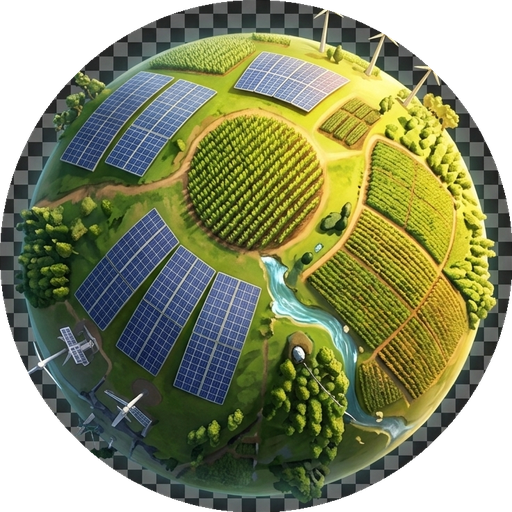
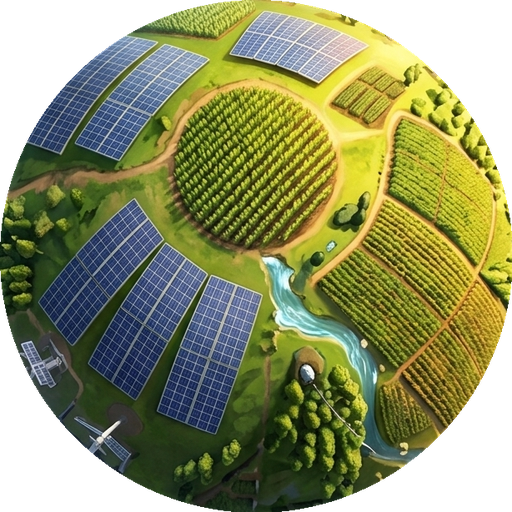
Fixe l'orientation des vaisseaux, le damier résiduel, et les crédits orphelins
- Les vaisseaux ne s'orientaient pas dans le sens du flux à cause d'une
  rotation fixe de -45° supposant une orientation commune aux 3 images ;
  en réalité elles pointent déjà globalement dans le sens attendu par
  l'angle de trajectoire calculé, donc suppression de cet offset.
- Applique les images de vaisseau à tous les flux (pas seulement ceux
  issus d'un salaire) pour la cohérence visuelle — la taille dépend
  toujours du % des revenus que représente le montant.
- salary.png et terrain.png avaient un fin anneau de damier résiduel
  visible autour du cercle (frac de recadrage trop large) ; recadrage
  plus serré.
- Un crédit dont la planète/actif lié a été supprimé restait affiché
  indéfiniment sans aucun moyen de le supprimer depuis l'UI. Ajoute un
  bouton de suppression sur chaque ligne de crédit dans la vue
  d'ensemble, avec mention "(non rattaché)" pour les crédits orphelins.
- Affiche le "Reste à investir" dans l'en-tête de la sidebar en plus
  du nœud dans la galaxie, pour qu'il soit visible sans avoir à le
  chercher dans le graphe.

diff --git a/src/components/GalaxyView.tsx b/src/components/GalaxyView.tsx
@@ -584,6 +584,12 @@ export default function GalaxyView({
               <span className="tabular text-negative">{formatMoney(debt)}</span>
             </div>}
           </div>}
+          {totalRevenue > 0 && (
+            <div className="flex items-center justify-between mt-1.5 text-[10px]">
+              <span className="text-text-muted">Reste à investir</span>
+              <span className={`tabular font-medium ${resteAInvestir > 0 ? "text-accent" : "text-text-muted"}`}>{formatMoney(resteAInvestir)}/m</span>
+            </div>
+          )}
           {structureScore !== null && (
             <div className="mt-2.5 pt-2 border-t border-border/60" title="Score organisationnel : diversification, dette, concentration, épargne — pas un conseil d'investissement.">
               <div className="flex items-center justify-between text-[10px]">
@@ -782,12 +788,7 @@ export default function GalaxyView({
               return <g key={`rk-${i}`}>
                 {trail.map((pt, ti) => <circle key={`tr-${i}-${ti}`} cx={pt.x} cy={pt.y} r={3.5 - ti * 0.7} fill="url(#rocket-trail)" opacity={0.55 - ti * 0.12} />)}
                 <g transform={`translate(${head.x},${head.y}) rotate(${head.angle})`}>
-                  {f.isSalarySource ? (
-                    <image href={SHIP_IMAGES[shipTier]} x={-shipDims.w / 2} y={-shipDims.h / 2} width={shipDims.w} height={shipDims.h} transform="rotate(-45)" opacity={0.95} />
-                  ) : <>
-                    <polygon points="-5,-3 6,0 -5,3" fill="#b8a5ff" opacity={0.9} />
-                    <polygon points="-6,0 -11,-3 -9,0 -11,3" fill="#fb923c" opacity={0.5 + Math.sin(t * 14) * 0.25} />
-                  </>}
+                  <image href={SHIP_IMAGES[shipTier]} x={-shipDims.w / 2} y={-shipDims.h / 2} width={shipDims.w} height={shipDims.h} opacity={0.95} />
                 </g>
               </g>;
             })}

diff --git a/src/components/NodePanel.tsx b/src/components/NodePanel.tsx
@@ -288,7 +288,15 @@ export default function NodePanel({ selected, loans, portfolios, members, goals,
           </div>}
           {loans.length > 0 && <div className="pt-2 border-t border-border">
             <p className="text-[10px] text-text-muted uppercase tracking-wide mb-1">Crédits</p>
-            {loans.map(l => <div key={l.id} className="flex justify-between text-xs py-0.5"><span className="text-text-muted">{l.name}</span><span className="tabular text-negative">{formatMoney(Number(l.remainingBalance))}</span></div>)}
+            {loans.map(l => <div key={l.id} className="flex justify-between items-center gap-2 text-xs py-0.5 group">
+              <span className="text-text-muted truncate">{l.name}{l.assetId == null && <span className="opacity-60"> (non rattaché)</span>}</span>
+              <span className="flex items-center gap-1.5 shrink-0">
+                <span className="tabular text-negative">{formatMoney(Number(l.remainingBalance))}</span>
+                <button onClick={async () => { if (confirm(`Supprimer le crédit "${l.name}" ?`)) await actions.deleteLoan(l.id); }} className="opacity-0 group-hover:opacity-100 text-text-muted hover:text-negative transition-opacity">
+                  <Trash2 size={11} />
+                </button>
+              </span>
+            </div>)}
           </div>}
           {portfolios.length > 0 && <div className="pt-2 border-t border-border">
             <p className="text-[10px] text-text-muted uppercase tracking-wide mb-1">Planètes</p>
